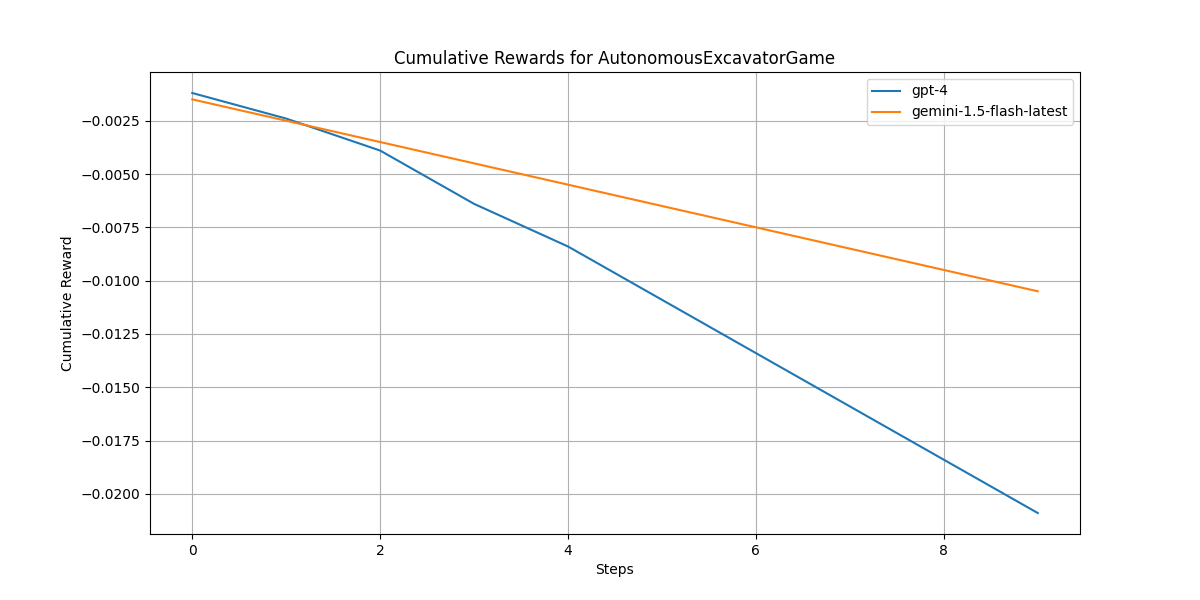
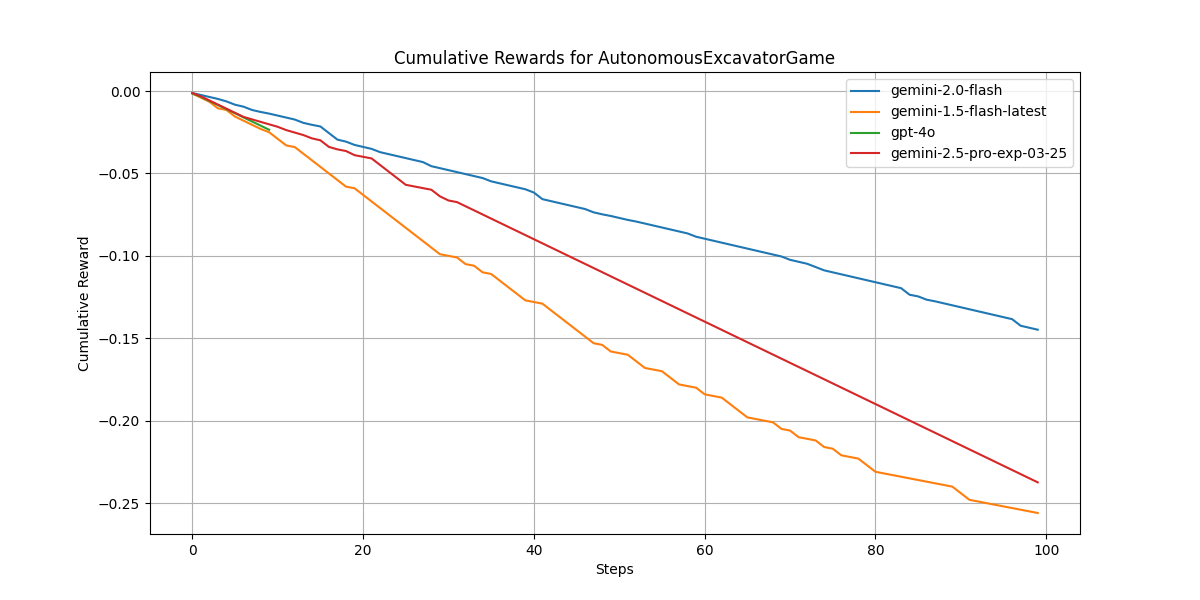
tested new prompt

diff --git a/terra/viz/main_manual_llm.py b/terra/viz/main_manual_llm.py
@@ -45,7 +45,7 @@ def save_video(frames, output_path, fps=1):
 
 def run_experiment(model_name, model_key, num_timesteps):
     # Load the JSON configuration file
-    with open("envs2.json", "r") as file:
+    with open("envs6.json", "r") as file:
         game_instructions = json.load(file)
 
     # Define the environment name for the Autonomous Excavator Game
